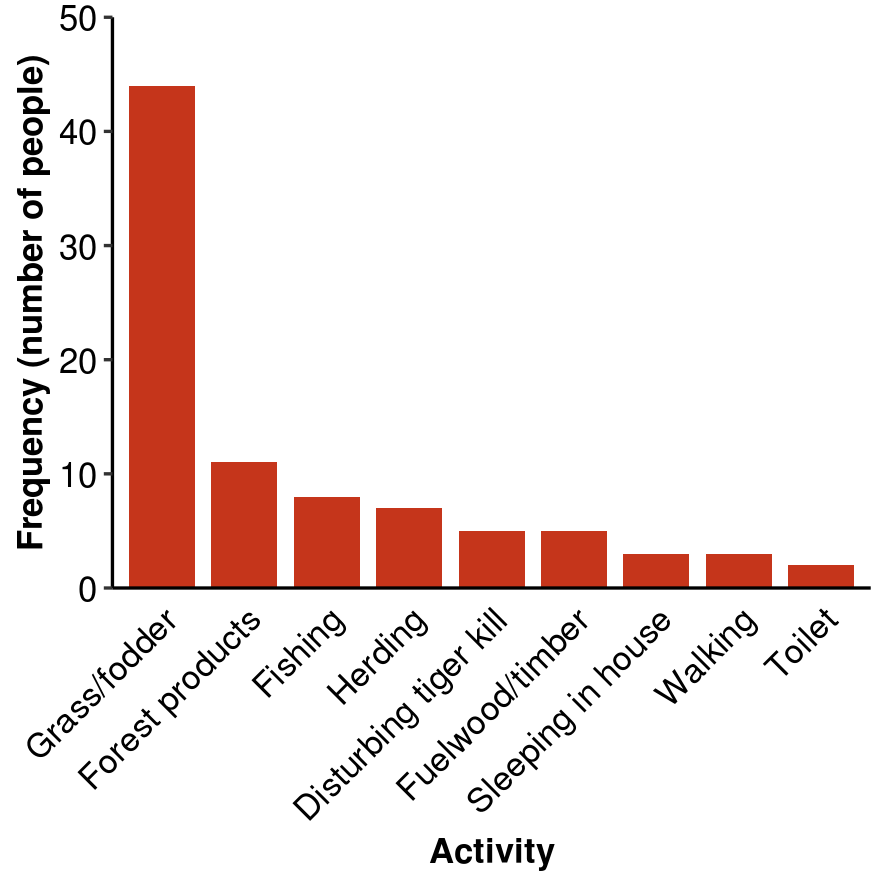
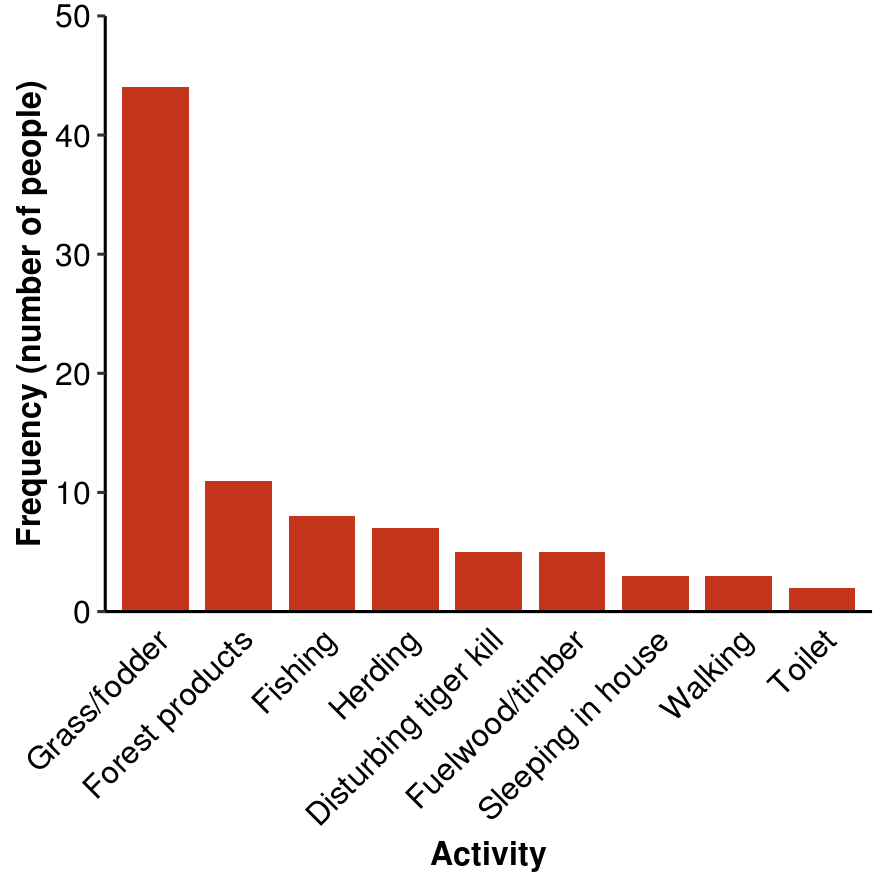
Update the book

Changed region(s): [[0.0, 0.0, 0.973, 0.9426], [0.4865, 0.9426, 0.6385, 1.0]]

diff --git a/introduction-to-ggplot2.html b/introduction-to-ggplot2.html
@@ -211,7 +211,7 @@
 </h3>
 <p>You will notice that the data itself did not appear in the console. That’s because we assigned it to an object but did not print it. To print the data in the console, type the name of the object into your R script and run it:</p>
 <div class="sourceCode" id="cb26"><pre class="downlit sourceCode r">
-<code class="sourceCode R"><span class="va">tiger_data</span>
+<code class="sourceCode R"><span class="va">tiger_data</span>                  <span class="co"># print the data in the console</span>
 <span class="co">#&gt; # A tibble: 88 x 2</span>
 <span class="co">#&gt;   person activity             </span>
 <span class="co">#&gt;    &lt;dbl&gt; &lt;chr&gt;                </span>
@@ -222,7 +222,7 @@
 <span class="co">#&gt; 5      5 Grass/fodder         </span>
 <span class="co">#&gt; 6      6 Forest products      </span>
 <span class="co">#&gt; # … with 82 more rows</span></code></pre></div>
-<p>Notice that the output in the console indicates the object is a tibble (a tidyverse name for a table of data) with 88 observations (rows) and 2 variables (columns).</p>
+<p>The output in the console indicates the object is a tibble (a tidyverse name for a table of data) with 88 observations (rows) and 2 variables (columns).</p>
 <p>You can view a list of distinct values taken by a categorical variable by using the <code>distinct()</code> function, which returns a table of distinct values taken by the variable. The first argument to the function is the name of the data, the second argument is the name of the variable:</p>
 <div class="sourceCode" id="cb27"><pre class="downlit sourceCode r">
 <code class="sourceCode R"><span class="fu">distinct</span><span class="op">(</span><span class="va">tiger_data</span>, <span class="va">activity</span><span class="op">)</span></code></pre></div>
@@ -326,10 +326,11 @@
 </ul>
 <div class="sourceCode" id="cb35"><pre class="downlit sourceCode r">
 <code class="sourceCode R"><span class="fu">ggplot</span><span class="op">(</span>data <span class="op">=</span> <span class="va">tiger_data</span><span class="op">)</span> <span class="op">+</span>
-  <span class="fu">geom_bar</span><span class="op">(</span>mapping <span class="op">=</span> <span class="fu">aes</span><span class="op">(</span>x <span class="op">=</span> <span class="fu">fct_infreq</span><span class="op">(</span><span class="va">activity</span><span class="op">)</span><span class="op">)</span>, fill <span class="op">=</span> <span class="st">"#C5351B"</span>, width <span class="op">=</span> <span class="fl">.8</span><span class="op">)</span> <span class="op">+</span>
+  <span class="fu">geom_bar</span><span class="op">(</span>mapping <span class="op">=</span> <span class="fu">aes</span><span class="op">(</span>x <span class="op">=</span> <span class="fu">fct_infreq</span><span class="op">(</span><span class="va">activity</span><span class="op">)</span><span class="op">)</span>, fill <span class="op">=</span> <span class="st">"#C5351B"</span>, 
+           width <span class="op">=</span> <span class="fl">.8</span><span class="op">)</span> <span class="op">+</span>
   <span class="fu">labs</span><span class="op">(</span>x <span class="op">=</span> <span class="st">"Activity"</span>, y <span class="op">=</span> <span class="st">"Frequency (number of people)"</span><span class="op">)</span> <span class="op">+</span>
   <span class="fu">scale_y_continuous</span><span class="op">(</span>limits <span class="op">=</span> <span class="fu"><a href="https://rdrr.io/r/base/c.html">c</a></span><span class="op">(</span><span class="fl">0</span>, <span class="fl">50</span><span class="op">)</span>, expand <span class="op">=</span> <span class="fu">expansion</span><span class="op">(</span>mult <span class="op">=</span> <span class="fl">0</span><span class="op">)</span><span class="op">)</span> <span class="op">+</span>
-  <span class="fu">theme_classic</span><span class="op">(</span>base_size <span class="op">=</span> <span class="fl">13</span><span class="op">)</span> <span class="op">+</span>
+  <span class="fu">theme_classic</span><span class="op">(</span>base_size <span class="op">=</span> <span class="fl">12</span><span class="op">)</span> <span class="op">+</span>
   <span class="fu">theme</span><span class="op">(</span>
     axis.title <span class="op">=</span> <span class="fu">element_text</span><span class="op">(</span>face <span class="op">=</span> <span class="st">"bold"</span><span class="op">)</span>,
     axis.text <span class="op">=</span> <span class="fu">element_text</span><span class="op">(</span>color <span class="op">=</span> <span class="st">"black"</span>, size <span class="op">=</span> <span class="fu">rel</span><span class="op">(</span><span class="fl">1</span><span class="op">)</span><span class="op">)</span>,
@@ -355,7 +356,7 @@
 <blockquote>
 <p>How many species are common and how many are rare? One way to address this question is to construct a frequency distribution of species abundance. The data in Table 2.2-2 are from a survey of the breeding birds of Organ Pipe Cactus National Monument in southern Arizona, USA. The measurements were extracted from the North American Breeding Bird Survey, a continent-wide data set of estimated bird numbers (Sauer et al. 2003)</p>
 </blockquote>
-<p>The dataset consists of one table showing the abundance of NN species in Organ Pipe National. Monument.</p>
+<p>The dataset consists of one table showing the abundance of 43 species in Organ Pipe National. Monument.</p>
 <p>You can view and explore the data using this interactive table:</p>
 <div id="htmlwidget-81bd36aa3d2a04d42bbc" style="width:100%;height:auto;" class="datatables html-widget"></div>
 <script type="application/json" data-for="htmlwidget-81bd36aa3d2a04d42bbc">{"x":{"filter":"none","data":[["1","2","3","4","5","6","7","8","9","10","11","12","13","14","15","16","17","18","19","20","21","22","23","24","25","26","27","28","29","30","31","32","33","34","35","36","37","38","39","40","41","42","43"],["Black Vulture","Turkey Vulture","Harris's Hawk","Red-tailed Hawk","American Kestrel","Gambel's Quail","Rock Dove","White-winged Dove","Mourning Dove","Greater Roadrunner","Great Horned Owl","Lesser Nighthawk","Black-chin. Hummingbird","Costa's Hummingbird","Gila Woodpecker","Ladder-back. Woodpecker","Gilded Flicker C","Ash-throated Flycatcher","Brown-crest. Flycatcher","Western Kingbird","Loggerhead Shrike","Bell's Vireo","Common Raven","Purple Martin","Violet-green Swallow","Verdin","Cactus Wren","Canyon Wren","Black-tail. Gnatcatcher","Northern Mockingbird","Curve-billed Thrasher","Phainopepla","Lucy's Warbler","Canyon Towhee","Black-throated Sparrow","Northern Cardinal","Great-tailed Grackle","Bronzed Cowbird","Brown-headed Cowbird","Hooded Oriole","Scott's Oriole","House Finch","House Sparrow"],[64,23,3,16,7,148,7,625,135,1,2,25,1,2,300,15,77,173,128,1,3,10,12,33,23,282,230,2,152,5,173,18,67,2,33,13,1,1,59,4,28,297,14]],"container":"<table class=\"display\">\n  <thead>\n    <tr>\n      <th> <\/th>\n      <th>species<\/th>\n      <th>abundance<\/th>\n    <\/tr>\n  <\/thead>\n<\/table>","options":{"pageLength":5,"columnDefs":[{"className":"dt-right","targets":2},{"orderable":false,"targets":0}],"order":[],"autoWidth":false,"orderClasses":false,"lengthMenu":[5,10,25,50,100]}},"evals":[],"jsHooks":[]}</script><p>Each row in the table represents a sample unit, or person. Thus the sample size is 88.</p>
@@ -366,20 +367,81 @@
 </ul>
 <p>For our purposes, the only variable of interest is abundance. We will not use the species variable.</p>
 </div>
-<div id="read-the-bird-data" class="section level3" number="3.6.2">
+<div id="read-and-view-the-bird-data" class="section level3" number="3.6.2">
 <h3>
-<span class="header-section-number">3.6.2</span> Read the bird data<a class="anchor" aria-label="anchor" href="#read-the-bird-data"><i class="fas fa-link"></i></a>
+<span class="header-section-number">3.6.2</span> Read and view the bird data<a class="anchor" aria-label="anchor" href="#read-and-view-the-bird-data"><i class="fas fa-link"></i></a>
 </h3>
+<p>Create a new code section in your script named “bird abundances” and read the data from the textbook website:</p>
+<div class="sourceCode" id="cb36"><pre class="downlit sourceCode r">
+<code class="sourceCode R"><span class="va">bird_data</span> <span class="op">&lt;-</span> <span class="fu">read_csv</span><span class="op">(</span><span class="st">"https://whitlockschluter.zoology.ubc.ca/wp-content/data/chapter02/chap02e2bDesertBirdAbundance.csv"</span><span class="op">)</span>
+<span class="co">#&gt; </span>
+<span class="co">#&gt; ── Column specification ────────────────────────────────────────────────────────</span>
+<span class="co">#&gt; cols(</span>
+<span class="co">#&gt;   species = col_character(),</span>
+<span class="co">#&gt;   abundance = col_double()</span>
+<span class="co">#&gt; )</span>
+
+<span class="va">bird_data</span>                  <span class="co"># print the data in the console</span>
+<span class="co">#&gt; # A tibble: 43 x 2</span>
+<span class="co">#&gt;   species          abundance</span>
+<span class="co">#&gt;   &lt;chr&gt;                &lt;dbl&gt;</span>
+<span class="co">#&gt; 1 Black Vulture           64</span>
+<span class="co">#&gt; 2 Turkey Vulture          23</span>
+<span class="co">#&gt; 3 Harris's Hawk            3</span>
+<span class="co">#&gt; 4 Red-tailed Hawk         16</span>
+<span class="co">#&gt; 5 American Kestrel         7</span>
+<span class="co">#&gt; 6 Gambel's Quail         148</span>
+<span class="co">#&gt; # … with 37 more rows</span></code></pre></div>
+<p>The output in the console indicates the object is a tibble with 43 observations (rows) and 2 variables (columns): species and abundance.</p>
+<p>The variable abundance is numerical, not categorical, so it would not be help to view distinct values, or to create a contingency table showing the number of times each value occurs.</p>
+<p>So let’s get straight to the histogram.</p>
 </div>
-<div id="use-geom_histogram-for-raw-data" class="section level3" number="3.6.3">
+<div id="make-a-histogram" class="section level3" number="3.6.3">
 <h3>
-<span class="header-section-number">3.6.3</span> Use geom_histogram() for raw data<a class="anchor" aria-label="anchor" href="#use-geom_histogram-for-raw-data"><i class="fas fa-link"></i></a>
+<span class="header-section-number">3.6.3</span> Make a histogram<a class="anchor" aria-label="anchor" href="#make-a-histogram"><i class="fas fa-link"></i></a>
 </h3>
-</div>
-<div id="use-stat_identity-for-summarized-data" class="section level3" number="3.6.4">
-<h3>
-<span class="header-section-number">3.6.4</span> Use stat_identity for summarized data<a class="anchor" aria-label="anchor" href="#use-stat_identity-for-summarized-data"><i class="fas fa-link"></i></a>
-</h3>
+<p>Like all ggplots, a histogram begins with a blank canvas. Notice that we set the data argument to <code>bird_data</code> this time rather than <code>tiger_data</code>.</p>
+<div class="sourceCode" id="cb37"><pre class="downlit sourceCode r">
+<code class="sourceCode R"><span class="fu">ggplot</span><span class="op">(</span>data <span class="op">=</span> <span class="va">bird_data</span><span class="op">)</span></code></pre></div>
+<p>While we used <code>geom_bar()</code> to create a bar graph, we will use <code>geom_histogram()</code> to create a histogram. The aesthetic mapping, however, is the same. Both require you to map the <code>x</code> argument, i.e. tell R which variable is on the x-axis. Because we are interested in looking at the distribution of abundance, we set the <code>x</code> argument to <code>abundance</code>:</p>
+<div class="sourceCode" id="cb38"><pre class="downlit sourceCode r">
+<code class="sourceCode R"><span class="fu">ggplot</span><span class="op">(</span>data <span class="op">=</span> <span class="va">bird_data</span><span class="op">)</span> <span class="op">+</span>
+  <span class="fu">geom_histogram</span><span class="op">(</span>mapping <span class="op">=</span> <span class="fu">aes</span><span class="op">(</span>x <span class="op">=</span> <span class="va">abundance</span><span class="op">)</span><span class="op">)</span>
+<span class="co">#&gt; `stat_bin()` using `bins = 30`. Pick better value with `binwidth`.</span></code></pre></div>
+<div class="inline-figure"><img src="lab-3_files/figure-html/unnamed-chunk-14-1.png" width="70%" style="display: block; margin: auto;"></div>
+<p>You will see a message in your console warning you that R used the default number of bins, which is 30. The one in your textbook uses bins that fall on the number 0, 50, 100, etc. Let’s try setting the bin width instead of the number of bins:</p>
+<div class="sourceCode" id="cb39"><pre class="downlit sourceCode r">
+<code class="sourceCode R"><span class="fu">ggplot</span><span class="op">(</span>data <span class="op">=</span> <span class="va">bird_data</span><span class="op">)</span> <span class="op">+</span>
+  <span class="fu">geom_histogram</span><span class="op">(</span>mapping <span class="op">=</span> <span class="fu">aes</span><span class="op">(</span>x <span class="op">=</span> <span class="va">abundance</span><span class="op">)</span>, binwidth <span class="op">=</span> <span class="fl">50</span><span class="op">)</span></code></pre></div>
+<div class="inline-figure"><img src="lab-3_files/figure-html/unnamed-chunk-15-1.png" width="70%" style="display: block; margin: auto;"></div>
+<p>The number of bins looks better, but it appears the first bin is centered around zero rather than starting at zero. You can fix this with the boundary argument, which tells R where one of the bin boundaries is (all other boundaries can be inferred from that because the bin width is also set). Thus the boundaries will be 0, 50, 100, etc.</p>
+<div class="sourceCode" id="cb40"><pre class="downlit sourceCode r">
+<code class="sourceCode R"><span class="fu">ggplot</span><span class="op">(</span>data <span class="op">=</span> <span class="va">bird_data</span><span class="op">)</span> <span class="op">+</span>
+  <span class="fu">geom_histogram</span><span class="op">(</span>mapping <span class="op">=</span> <span class="fu">aes</span><span class="op">(</span>x <span class="op">=</span> <span class="va">abundance</span><span class="op">)</span>, binwidth <span class="op">=</span> <span class="fl">50</span>,
+                 boundary <span class="op">=</span> <span class="fl">0</span>, closed <span class="op">=</span> <span class="st">"left"</span><span class="op">)</span></code></pre></div>
+<div class="inline-figure"><img src="lab-3_files/figure-html/unnamed-chunk-16-1.png" width="70%" style="display: block; margin: auto;"></div>
+<p>This looks better, but not quite right. If you look at the raw data, you will see one data point for Gila woodpecker with an abundance of 300. Looking at this figure, it’s obvious that the value is being included in the bin to the left of 300 rather than the one to the right. In other words, the bins are 250-299, 300-349. We really want them to be 250-300 and 301-350.</p>
+<p>Set the <code>closed</code> argument to <code>"left"</code> to change it so the left edge of the bin is included in the bin, not the right edge. The quick-minded might wonder if that makes the first bin (which includes both zero and 50) wider than the others. In short, I don’t know but it doesn’t matter here because there are no species in the dataset with an abundance of zero.</p>
+<div class="sourceCode" id="cb41"><pre class="downlit sourceCode r">
+<code class="sourceCode R"><span class="fu">ggplot</span><span class="op">(</span>data <span class="op">=</span> <span class="va">bird_data</span><span class="op">)</span> <span class="op">+</span>
+  <span class="fu">geom_histogram</span><span class="op">(</span>mapping <span class="op">=</span> <span class="fu">aes</span><span class="op">(</span>x <span class="op">=</span> <span class="va">abundance</span><span class="op">)</span>, binwidth <span class="op">=</span> <span class="fl">50</span>,
+                 boundary <span class="op">=</span> <span class="fl">0</span>, closed <span class="op">=</span> <span class="st">"left"</span>, 
+                 fill <span class="op">=</span> <span class="st">"#C5351B"</span>, color <span class="op">=</span> <span class="st">"black"</span><span class="op">)</span> <span class="op">+</span>
+  <span class="fu">labs</span><span class="op">(</span>x <span class="op">=</span> <span class="st">"Abundance"</span>, y <span class="op">=</span> <span class="st">"Frequency (number of species)"</span><span class="op">)</span> <span class="op">+</span>
+  <span class="fu">scale_y_continuous</span><span class="op">(</span>breaks <span class="op">=</span> <span class="fu"><a href="https://rdrr.io/r/base/seq.html">seq</a></span><span class="op">(</span><span class="fl">0</span>, <span class="fl">30</span>, <span class="fl">5</span><span class="op">)</span>, limits <span class="op">=</span> <span class="fu"><a href="https://rdrr.io/r/base/c.html">c</a></span><span class="op">(</span><span class="fl">0</span>, <span class="fl">30</span><span class="op">)</span>, 
+                     expand <span class="op">=</span> <span class="fu">expansion</span><span class="op">(</span>mult <span class="op">=</span> <span class="fl">0</span><span class="op">)</span><span class="op">)</span> <span class="op">+</span>
+  <span class="fu">scale_x_continuous</span><span class="op">(</span>breaks <span class="op">=</span> <span class="fu"><a href="https://rdrr.io/r/base/seq.html">seq</a></span><span class="op">(</span><span class="fl">0</span>, <span class="fl">600</span>, <span class="fl">100</span><span class="op">)</span><span class="op">)</span> <span class="op">+</span>
+  <span class="fu">theme</span><span class="op">(</span>
+    axis.title <span class="op">=</span> <span class="fu">element_text</span><span class="op">(</span>face <span class="op">=</span> <span class="st">"bold"</span><span class="op">)</span>,
+    axis.text <span class="op">=</span> <span class="fu">element_text</span><span class="op">(</span>color <span class="op">=</span> <span class="st">"black"</span>, size <span class="op">=</span> <span class="fu">rel</span><span class="op">(</span><span class="fl">1</span><span class="op">)</span><span class="op">)</span>
+  <span class="op">)</span></code></pre></div>
+<div class="inline-figure"><img src="lab-3_files/figure-html/unnamed-chunk-17-1.png" width="70%" style="display: block; margin: auto;"></div>
+<p>And finally, clean it up with some styling changes:</p>
+<div class="sourceCode" id="cb42"><pre class="downlit sourceCode r">
+<code class="sourceCode R"><span class="fu">ggplot</span><span class="op">(</span>data <span class="op">=</span> <span class="va">bird_data</span><span class="op">)</span> <span class="op">+</span>
+  <span class="fu">geom_histogram</span><span class="op">(</span>mapping <span class="op">=</span> <span class="fu">aes</span><span class="op">(</span>x <span class="op">=</span> <span class="va">abundance</span><span class="op">)</span>, binwidth <span class="op">=</span> <span class="fl">50</span>,
+                 boundary <span class="op">=</span> <span class="fl">0</span>, closed <span class="op">=</span> <span class="st">"left"</span><span class="op">)</span></code></pre></div>
+<div class="inline-figure"><img src="lab-3_files/figure-html/unnamed-chunk-18-1.png" width="70%" style="display: block; margin: auto;"></div>
 </div>
 </div>
 <div id="your-assignment" class="section level2" number="3.7">
@@ -477,9 +539,8 @@
 <li>
 <a class="nav-link" href="#histograms"><span class="header-section-number">3.6</span> Histograms</a><ul class="nav navbar-nav">
 <li><a class="nav-link" href="#example-bird-data"><span class="header-section-number">3.6.1</span> Example: bird data</a></li>
-<li><a class="nav-link" href="#read-the-bird-data"><span class="header-section-number">3.6.2</span> Read the bird data</a></li>
-<li><a class="nav-link" href="#use-geom_histogram-for-raw-data"><span class="header-section-number">3.6.3</span> Use geom_histogram() for raw data</a></li>
-<li><a class="nav-link" href="#use-stat_identity-for-summarized-data"><span class="header-section-number">3.6.4</span> Use stat_identity for summarized data</a></li>
+<li><a class="nav-link" href="#read-and-view-the-bird-data"><span class="header-section-number">3.6.2</span> Read and view the bird data</a></li>
+<li><a class="nav-link" href="#make-a-histogram"><span class="header-section-number">3.6.3</span> Make a histogram</a></li>
 </ul>
 </li>
 <li><a class="nav-link" href="#your-assignment"><span class="header-section-number">3.7</span> Your assignment</a></li>

diff --git a/code-sections.html b/code-sections.html
@@ -73,7 +73,7 @@
 <img src="screenshots/code-sections-r.png" style="width:100.0%" alt=""><p class="caption">Screenshot of a script with three code sections showing the Document Outline</p>
 </div>
 <p>And here is the code in the script shown in the screenshot above:</p>
-<div class="sourceCode" id="cb36"><pre class="downlit sourceCode r">
+<div class="sourceCode" id="cb43"><pre class="downlit sourceCode r">
 <code class="sourceCode R">
 <span class="co">## This script shows an example of using comments to create a document outline</span>
 

diff --git a/lab-3.md b/lab-3.md
@@ -160,7 +160,7 @@ You will notice that the data itself did not appear in the console. That's becau
 
 
 ```r
-tiger_data
+tiger_data                  # print the data in the console
 #> # A tibble: 88 x 2
 #>   person activity             
 #>    <dbl> <chr>                
@@ -173,7 +173,7 @@ tiger_data
 #> # … with 82 more rows
 ```
 
-Notice that the output in the console indicates the object is a tibble (a tidyverse name for a table of data) with 88 observations (rows) and 2 variables (columns).
+The output in the console indicates the object is a tibble (a tidyverse name for a table of data) with 88 observations (rows) and 2 variables (columns).
 
 You can view a list of distinct values taken by a categorical variable by using the `distinct()` function, which returns a table of distinct values taken by the variable. The first argument to the function is the name of the data, the second argument is the name of the variable:
 
@@ -321,10 +321,11 @@ Fourth, fix the look of the graph by using:
 
 ```r
 ggplot(data = tiger_data) +
-  geom_bar(mapping = aes(x = fct_infreq(activity)), fill = "#C5351B", width = .8) +
+  geom_bar(mapping = aes(x = fct_infreq(activity)), fill = "#C5351B", 
+           width = .8) +
   labs(x = "Activity", y = "Frequency (number of people)") +
   scale_y_continuous(limits = c(0, 50), expand = expansion(mult = 0)) +
-  theme_classic(base_size = 13) +
+  theme_classic(base_size = 12) +
   theme(
     axis.title = element_text(face = "bold"),
     axis.text = element_text(color = "black", size = rel(1)),
@@ -351,7 +352,7 @@ We will use the data from Example 2.2B in your textbook for this activity. The s
 
 > How many species are common and how many are rare? One way to address this question is to construct a frequency distribution of species abundance. The data in Table 2.2-2 are from a survey of the breeding birds of Organ Pipe Cactus National Monument in southern Arizona, USA. The measurements were extracted from the North American Breeding Bird Survey, a continent-wide data set of estimated bird numbers (Sauer et al. 2003)
 
-The dataset consists of one table showing the abundance of NN species in Organ Pipe National. Monument.
+The dataset consists of one table showing the abundance of 43 species in Organ Pipe National. Monument.
 
 You can view and explore the data using this interactive table:
 
@@ -371,11 +372,112 @@ The variables are:
 
 For our purposes, the only variable of interest is abundance. We will not use the species variable.
 
-### Read the bird data
+### Read and view the bird data
 
-### Use geom_histogram() for raw data
+Create a new code section in your script named "bird abundances" and read the data from the textbook website:
 
-### Use stat_identity for summarized data
+
+```r
+bird_data <- read_csv("https://whitlockschluter.zoology.ubc.ca/wp-content/data/chapter02/chap02e2bDesertBirdAbundance.csv")
+#> 
+#> ── Column specification ────────────────────────────────────────────────────────
+#> cols(
+#>   species = col_character(),
+#>   abundance = col_double()
+#> )
+
+bird_data                  # print the data in the console
+#> # A tibble: 43 x 2
+#>   species          abundance
+#>   <chr>                <dbl>
+#> 1 Black Vulture           64
+#> 2 Turkey Vulture          23
+#> 3 Harris's Hawk            3
+#> 4 Red-tailed Hawk         16
+#> 5 American Kestrel         7
+#> 6 Gambel's Quail         148
+#> # … with 37 more rows
+```
+
+The output in the console indicates the object is a tibble with 43 observations (rows) and 2 variables (columns): species and abundance.
+
+The variable abundance is numerical, not categorical, so it would not be help to view distinct values, or to create a contingency table showing the number of times each value occurs.
+
+So let's get straight to the histogram.
+
+### Make a histogram
+
+Like all ggplots, a histogram begins with a blank canvas. Notice that we set the data argument to `bird_data` this time rather than `tiger_data`.
+
+
+```r
+ggplot(data = bird_data)
+```
+
+While we used `geom_bar()` to create a bar graph, we will use `geom_histogram()` to create a histogram. The aesthetic mapping, however, is the same. Both require you to map the `x` argument, i.e. tell R which variable is on the x-axis. Because we are interested in looking at the distribution of abundance, we set the `x` argument to `abundance`:
+
+
+```r
+ggplot(data = bird_data) +
+  geom_histogram(mapping = aes(x = abundance))
+#> `stat_bin()` using `bins = 30`. Pick better value with `binwidth`.
+```
+
+<img src="lab-3_files/figure-html/unnamed-chunk-14-1.png" width="70%" style="display: block; margin: auto;" />
+
+You will see a message in your console warning you that R used the default number of bins, which is 30. The one in your textbook uses bins that fall on the number 0, 50, 100, etc. Let's try setting the bin width instead of the number of bins:
+
+
+```r
+ggplot(data = bird_data) +
+  geom_histogram(mapping = aes(x = abundance), binwidth = 50)
+```
+
+<img src="lab-3_files/figure-html/unnamed-chunk-15-1.png" width="70%" style="display: block; margin: auto;" />
+
+The number of bins looks better, but it appears the first bin is centered around zero rather than starting at zero. You can fix this with the boundary argument, which tells R where one of the bin boundaries is (all other boundaries can be inferred from that because the bin width is also set). Thus the boundaries will be 0, 50, 100, etc.
+
+
+```r
+ggplot(data = bird_data) +
+  geom_histogram(mapping = aes(x = abundance), binwidth = 50,
+                 boundary = 0, closed = "left")
+```
+
+<img src="lab-3_files/figure-html/unnamed-chunk-16-1.png" width="70%" style="display: block; margin: auto;" />
+
+This looks better, but not quite right. If you look at the raw data, you will see one data point for Gila woodpecker with an abundance of 300. Looking at this figure, it's obvious that the value is being included in the bin to the left of 300 rather than the one to the right. In other words, the bins are 250-299, 300-349. We really want them to be 250-300 and 301-350.
+
+Set the `closed` argument to `"left"` to change it so the left edge of the bin is included in the bin, not the right edge. The quick-minded might wonder if that makes the first bin (which includes both zero and 50) wider than the others. In short, I don't know but it doesn't matter here because there are no species in the dataset with an abundance of zero.
+
+
+```r
+ggplot(data = bird_data) +
+  geom_histogram(mapping = aes(x = abundance), binwidth = 50,
+                 boundary = 0, closed = "left", 
+                 fill = "#C5351B", color = "black") +
+  labs(x = "Abundance", y = "Frequency (number of species)") +
+  scale_y_continuous(breaks = seq(0, 30, 5), limits = c(0, 30), 
+                     expand = expansion(mult = 0)) +
+  scale_x_continuous(breaks = seq(0, 600, 100)) +
+  theme(
+    axis.title = element_text(face = "bold"),
+    axis.text = element_text(color = "black", size = rel(1))
+  )
+```
+
+<img src="lab-3_files/figure-html/unnamed-chunk-17-1.png" width="70%" style="display: block; margin: auto;" />
+
+And finally, clean it up with some styling changes:
+
+
+```r
+ggplot(data = bird_data) +
+  geom_histogram(mapping = aes(x = abundance), binwidth = 50,
+                 boundary = 0, closed = "left")
+```
+
+<img src="lab-3_files/figure-html/unnamed-chunk-18-1.png" width="70%" style="display: block; margin: auto;" />
 
 ## Your assignment
 
